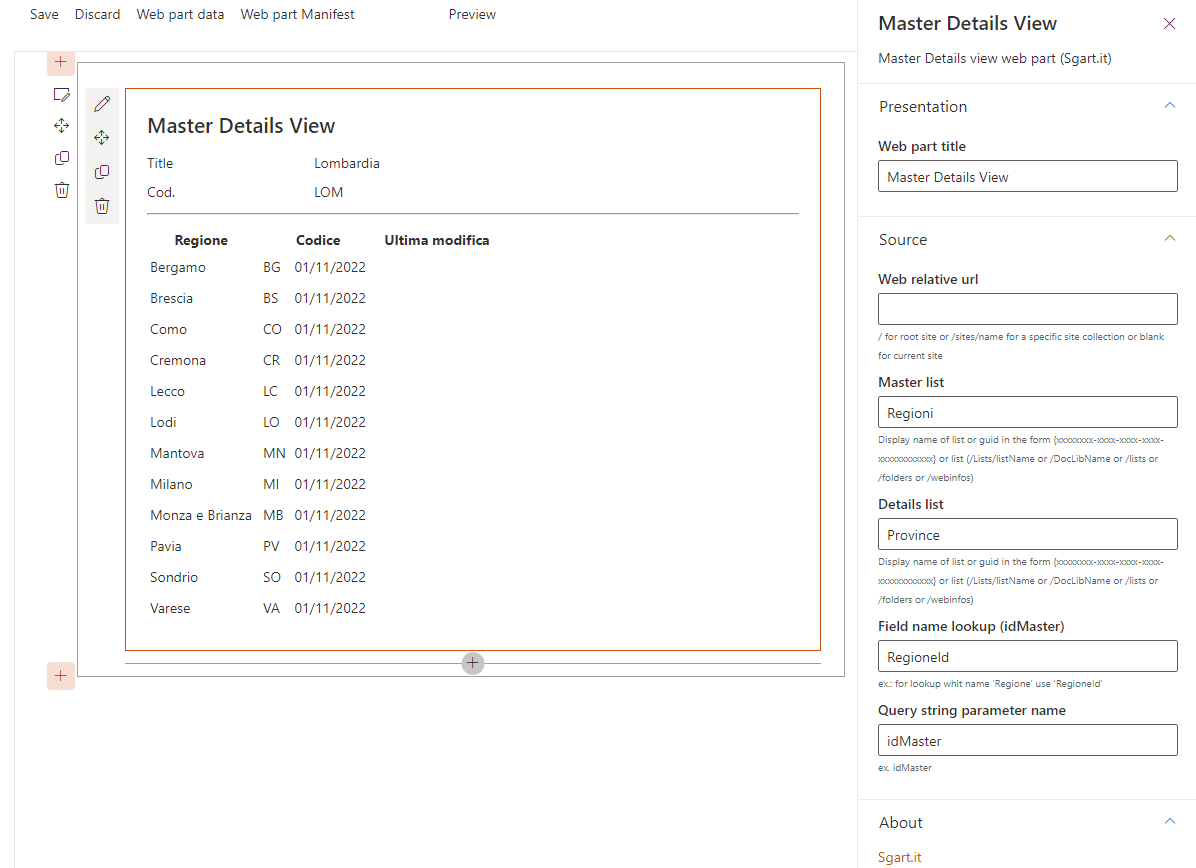
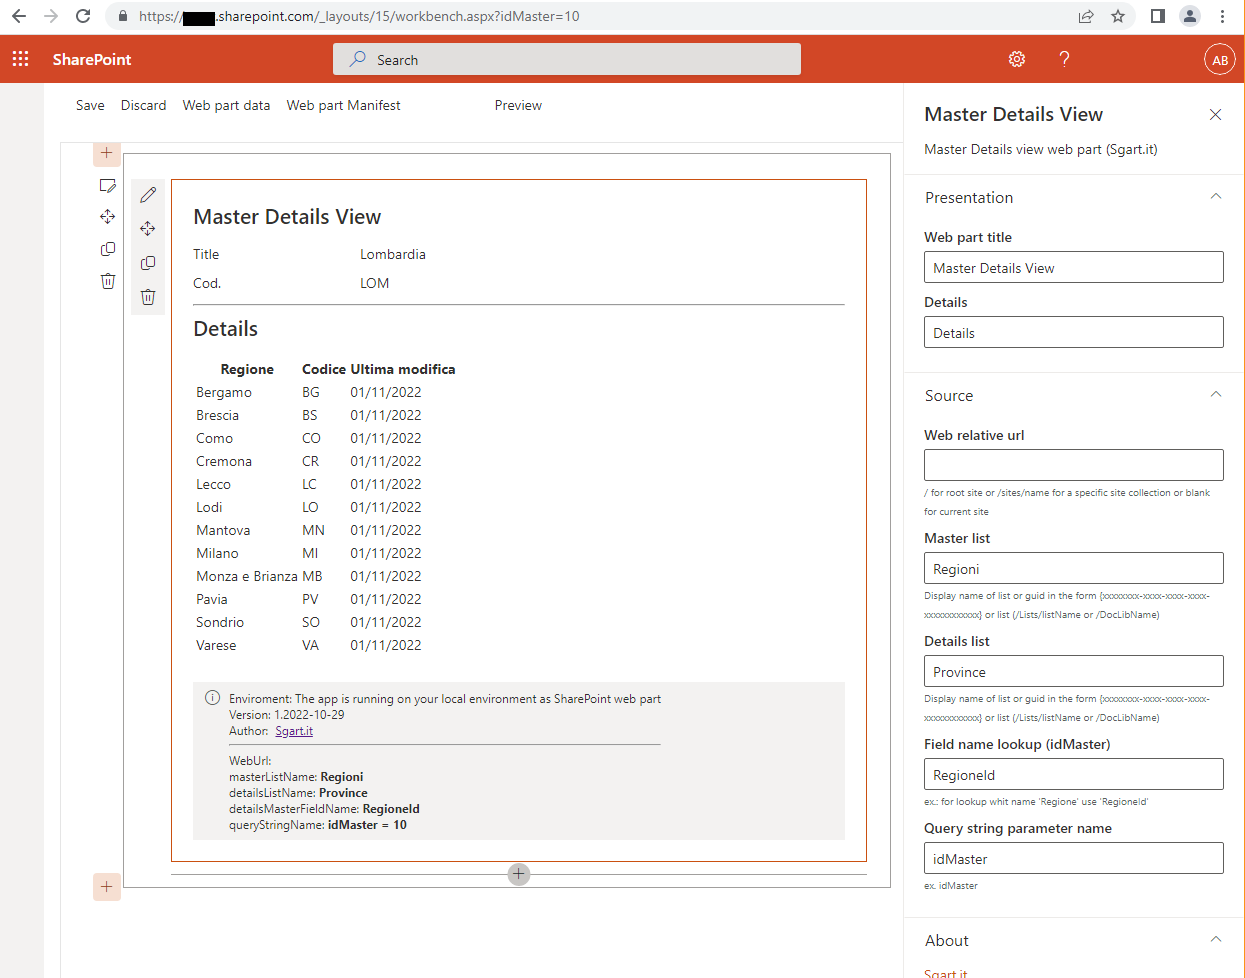
fix

diff --git a/src/webparts/masterDetails/components/MasterDetailsView.tsx b/src/webparts/masterDetails/components/MasterDetailsView.tsx
@@ -11,8 +11,9 @@ import { isNullOrWhiteSpace } from '../Helper';
 import { IResult } from '../data/IResult';
 import { IMasterItem } from '../data/IMasterItem';
 import { IDetailItem } from '../data/IDetailItem';
+import { ViewMode } from './ViewMode';
 
-const VERSION = "1.2022-10-29";
+const VERSION = "1.2022-11-01";
 
 export default class MasterDetailsView extends React.Component<IMasterDetailsViewProps, IMasterDetailsViewState> {
 
@@ -22,6 +23,9 @@ export default class MasterDetailsView extends React.Component<IMasterDetailsVie
     this.state = {
       masterLoading: true,
       detailsLoading: true,
+
+      showMaster: false,
+      showDetails: false,
 
       success: false,
 
@@ -39,6 +43,9 @@ export default class MasterDetailsView extends React.Component<IMasterDetailsVie
     const {
       isPropertyPaneOpen,
       title,
+      detailsTitle,
+      viewMode,
+
       webRelativeUrl,
       masterListName,
       detailsListName,
@@ -51,14 +58,15 @@ export default class MasterDetailsView extends React.Component<IMasterDetailsVie
       hasTeamsContext
     } = this.props;
 
-    const { masterItem, detailItems } = this.state;
+    const { showMaster, showDetails, masterItem, detailItems } = this.state;
 
-    const isTitleVivible = !isNullOrWhiteSpace(title);
+    const isTitleVisible = !isNullOrWhiteSpace(title);
+    const isDetailsTitleVisible = !isNullOrWhiteSpace(detailsTitle);
 
     return (
       <section className={`${styles.masterDetails} ${hasTeamsContext ? styles.teams : ''}`}>
 
-        {isTitleVivible && (
+        {isTitleVisible && (
           <div className={styles.title}>
             <span role="heading">{escape(title)}</span>
           </div>
@@ -70,11 +78,17 @@ export default class MasterDetailsView extends React.Component<IMasterDetailsVie
           </MessageBar>
         )}
 
-        <Master item={masterItem} />
+        {showMaster && <Master item={masterItem} />}
 
-        <hr />
+        {showMaster && showDetails && <hr />}
 
-        <Details items={detailItems} />
+        {showMaster && showDetails && isDetailsTitleVisible && (
+          <div className={styles.title2}>
+            <span role="heading">{escape(detailsTitle)}</span>
+          </div>
+        )}
+
+        {showDetails && <Details items={detailItems} />}
 
         {isPropertyPaneOpen && (
           <MessageBar
@@ -86,7 +100,8 @@ export default class MasterDetailsView extends React.Component<IMasterDetailsVie
             <div>Version: {VERSION}</div>
             <div>Author: <a href="https://www.sgart.it?SPFxMasterDetails" target="_blank" rel="noreferrer">Sgart.it</a></div>
             <hr />
-            <div>WebUrl: <strong>{escape(webRelativeUrl)}</strong></div>
+            <div>viewMode: <strong>{(ViewMode as any)[viewMode]} ({viewMode})</strong></div>
+            <div>webUrl: <strong>{escape(webRelativeUrl)}</strong></div>
             <div>masterListName: <strong>{escape(masterListName)}</strong></div>
             <div>detailsListName: <strong>{escape(detailsListName)}</strong></div>
             <div>detailsMasterFieldName: <strong>{escape(detailsMasterFieldName)}</strong></div>
@@ -103,6 +118,9 @@ export default class MasterDetailsView extends React.Component<IMasterDetailsVie
 
   public async componentDidUpdate(prevProps: IMasterDetailsViewProps, prevState: IMasterDetailsViewState): Promise<void> {
     if (
+      prevProps.title !== this.props.title ||
+      prevProps.detailsTitle !== this.props.detailsTitle ||
+      prevProps.viewMode !== this.props.viewMode ||
       prevProps.webRelativeUrl !== this.props.webRelativeUrl ||
       prevProps.masterListName !== this.props.masterListName ||
       prevProps.detailsListName !== this.props.detailsListName ||
@@ -113,44 +131,56 @@ export default class MasterDetailsView extends React.Component<IMasterDetailsVie
   }
 
   private async loadItems(): Promise<void> {
-    const { webRelativeUrl, masterListName, detailsListName, detailsMasterFieldName, idMaster } = this.props;
+    const { viewMode, webRelativeUrl, masterListName, detailsListName, detailsMasterFieldName, idMaster } = this.props;
+
+    const showMaster = viewMode === ViewMode.MasterAndDetails || viewMode === ViewMode.Master;
+    const showDetails = viewMode === ViewMode.MasterAndDetails || viewMode === ViewMode.Details;
 
     try {
-      this.setState({ masterLoading: true, detailsLoading: true });
-
-      getMaster(webRelativeUrl, masterListName, idMaster)
-        .then((result: IResult<IMasterItem>) => {
-          this.setState({
-            masterLoading: false,
-            masterItem: result.data,
-            error: result.error,
-            masterUrl: result.url
-          });
-        })
-        .catch(error => {
-          this.setState({
-            masterLoading: false,
-            masterItem: undefined,
-            error: error
-          });
-        });
-
-      getDetails(webRelativeUrl, detailsListName, detailsMasterFieldName, idMaster)
-      .then((result: IResult<IDetailItem[]>) => {
-        this.setState({
-          detailsLoading: false,
-          detailItems: result.data,
-          error: result.error,
-          masterUrl: result.url
-        });
-      })
-      .catch(error => {
-        this.setState({
-          detailsLoading: false,
-          detailItems: [],
-          error: error
-        });
+      this.setState({
+        masterLoading: showMaster,
+        detailsLoading: showDetails,
+        showMaster: showMaster,
+        showDetails: showDetails
       });
+
+      if (showMaster === true) {
+        getMaster(webRelativeUrl, masterListName, idMaster)
+          .then((result: IResult<IMasterItem>) => {
+            this.setState({
+              masterLoading: false,
+              masterItem: result.data,
+              error: result.error,
+              masterUrl: result.url
+            });
+          })
+          .catch(error => {
+            this.setState({
+              masterLoading: false,
+              masterItem: undefined,
+              error: error
+            });
+          });
+      }
+
+      if (showDetails === true) {
+        getDetails(webRelativeUrl, detailsListName, detailsMasterFieldName, idMaster)
+          .then((result: IResult<IDetailItem[]>) => {
+            this.setState({
+              detailsLoading: false,
+              detailItems: result.data,
+              error: result.error,
+              masterUrl: result.url
+            });
+          })
+          .catch(error => {
+            this.setState({
+              detailsLoading: false,
+              detailItems: [],
+              error: error
+            });
+          });
+      }
 
     } catch (error) {
       this.setState({

diff --git a/src/webparts/masterDetails/MasterDetailsViewWebPart.ts b/src/webparts/masterDetails/MasterDetailsViewWebPart.ts
@@ -3,6 +3,7 @@ import * as ReactDom from 'react-dom';
 import { Version } from '@microsoft/sp-core-library';
 import {
   IPropertyPaneConfiguration,
+  PropertyPaneDropdown,
   PropertyPaneLink,
   PropertyPaneTextField
 } from '@microsoft/sp-property-pane';
@@ -14,6 +15,7 @@ import MasterDetails from './components/MasterDetailsView';
 import { IMasterDetailsViewProps } from './components/IMasterDetailsViewProps';
 import { IMasterDetailsViewWebPartProps } from './IMasterDetailsViewWebPartProps';
 import { initDataService } from './data/DataService';
+import { ViewMode } from './components/ViewMode';
 
 export default class MasterDetailsViewWebPart extends BaseClientSideWebPart<IMasterDetailsViewWebPartProps> {
 
@@ -32,18 +34,22 @@ export default class MasterDetailsViewWebPart extends BaseClientSideWebPart<IMas
     const params = new URLSearchParams(document.location.search);
     // attenzione il parametro in query string è case sensitive
     const idMaster = Number(params.get(this.properties.queryStringName));
+    const props = this.properties;
 
     const element: React.ReactElement<IMasterDetailsViewProps> = React.createElement(
       MasterDetails,
       {
         isPropertyPaneOpen: this.context.propertyPane.isPropertyPaneOpen(),
 
-        title: this.properties.webpartTitle,
-        webRelativeUrl: this.properties.webRelativeUrl,
-        masterListName: this.properties.masterListName,
-        detailsListName: this.properties.detailsListName,
-        detailsMasterFieldName: this.properties.detailsMasterFieldName,
-        queryStringName: this.properties.queryStringName,
+        title: props.webpartTitle,
+        detailsTitle: props.detailsTitle,
+        viewMode: (ViewMode as any)[this.properties.viewMode],
+
+        webRelativeUrl: props.webRelativeUrl,
+        masterListName: props.masterListName,
+        detailsListName: props.detailsListName,
+        detailsMasterFieldName: props.detailsMasterFieldName,
+        queryStringName: props.queryStringName,
 
         idMaster: idMaster,
 
@@ -54,7 +60,7 @@ export default class MasterDetailsViewWebPart extends BaseClientSideWebPart<IMas
       }
     );
 
-    console.log('instance', this.context.instanceId);
+    console.log('Master/Details instance id', this.context.instanceId);
     ReactDom.render(element, this.domElement);
   }
 
@@ -93,6 +99,10 @@ export default class MasterDetailsViewWebPart extends BaseClientSideWebPart<IMas
   }
 
   protected getPropertyPaneConfiguration(): IPropertyPaneConfiguration {
+    const viewModeOptions = Object.keys(ViewMode)
+      .filter((v) => isNaN(Number(v)))
+      .map(item => { return { key: item, text: item } });
+
     return {
       pages: [
         {
@@ -106,7 +116,14 @@ export default class MasterDetailsViewWebPart extends BaseClientSideWebPart<IMas
               groupFields: [
                 PropertyPaneTextField('webpartTitle', {
                   label: strings.WebPartTitleLabel
-                })
+                }),
+                PropertyPaneTextField('detailsTitle', {
+                  label: strings.DetailsTitleLabel
+                }),
+                PropertyPaneDropdown('viewMode', {
+                  label: strings.ViewModeLabel,
+                  options: viewModeOptions
+                }),
               ]
             },
             {

diff --git a/src/webparts/masterDetails/loc/en-us.js b/src/webparts/masterDetails/loc/en-us.js
@@ -12,14 +12,16 @@ define([], function() {
 
 
     "WebPartTitleLabel": "Web part title",
+    "DetailsTitleLabel": "Details title",
+    "ViewModeLabel": "View mode",
     
     "WebRelativeUrlLabel": "Web relative url",
     "WebRelativeUrlDescription": "/ for root site or /sites/name for a specific site collection or blank for current site",
     "MasterListNameLabel": "Master list",
-    "ListNameDescription": "Display name of list or guid in the form {xxxxxxxx-xxxx-xxxx-xxxx-xxxxxxxxxxxx} or list (/Lists/listName or /DocLibName or /lists or /folders or /webinfos)",
+    "ListNameDescription": "Display name of list or guid in the form {xxxxxxxx-xxxx-xxxx-xxxx-xxxxxxxxxxxx} or list (/Lists/listName or /DocLibName)",
     "DetailsListNameLabel": "Details list",
     "DetailsMasterFieldNameLabel":"Field name lookup (idMaster)",
-    "DetailsMasterFieldNameDescription":"ex.: for lookup whit name 'Regione' use 'RegioneId'",
+    "DetailsMasterFieldNameDescription":"ex.: for lookup with name 'Regione' use 'RegioneId'",
 
     "QueryStringNameLabel": "Query string parameter name",
     "QueryStringNameDescription": "ex. idMaster" 

diff --git a/src/webparts/masterDetails/data/DataService.ts b/src/webparts/masterDetails/data/DataService.ts
@@ -26,7 +26,6 @@ const _localeDateTimeOptions: Intl.DateTimeFormatOptions = { year: 'numeric', mo
 const getString = (item: object, name: string): string | undefined => {
     try {
         const value = (item as any)[name];
-        console.log('getString', item, item as any, (item as any)[name]);
 
         if (null === value) return undefined;
 
@@ -196,7 +195,7 @@ export async function getDetails(webRelativeUrl: string, listName: string, filed
                         id: item.Id,
                         title: isNullOrWhiteSpace(title) || title === '-' ? '' : title,
                         codProvincia: getString(item, "CodProvincia"),
-                        modified: getDate(item, "Modified", "date")
+                        modified: getDate(item, "Modified", "datetime")
                     };
                 });
                 result.success = true;

diff --git a/src/webparts/masterDetails/components/views/Details.tsx b/src/webparts/masterDetails/components/views/Details.tsx
@@ -25,8 +25,8 @@ export default class Details extends React.Component<IDetailsViewProps> {
       return (
         <tr key={item.id}>
           <td>{item.title}</td>
-          <td className={styles.gridCol4}>{item.codProvincia}</td>
-          <td className={styles.gridCol4}>{item.modified}</td>
+          <td>{item.codProvincia}</td>
+          <td>{item.modified}</td>
         </tr>
       );
 

diff --git a/src/webparts/masterDetails/components/MasterDetailsView.module.scss b/src/webparts/masterDetails/components/MasterDetailsView.module.scss
@@ -61,6 +61,15 @@ Orange theme
   margin: 0 0 10px 0;
 }
 
+.title2 {
+  @include ms-fontSize-l;
+  @include ms-fontWeight-semibold;
+  text-align: left;
+  color: "[theme:bodyText, default: #323130]";
+  color: var(--bodyText);
+  margin: 0 0 10px 0;
+}
+
 .debugInfo {
   margin-top: 20px;
 }

diff --git a/src/webparts/masterDetails/IMasterDetailsViewWebPartProps.ts b/src/webparts/masterDetails/IMasterDetailsViewWebPartProps.ts
@@ -1,6 +1,8 @@
 export interface IMasterDetailsViewWebPartProps {
     webpartTitle: string;
- 
+    detailsTitle: string;
+    viewMode: string;
+    
     webRelativeUrl: string;
     masterListName: string;
     detailsListName: string;

diff --git a/src/webparts/masterDetails/loc/mystrings.d.ts b/src/webparts/masterDetails/loc/mystrings.d.ts
@@ -11,6 +11,8 @@ declare interface IMasterDetailsViewWebPartStrings {
 
 
   WebPartTitleLabel: string;
+  DetailsTitleLabel: string;
+  ViewModeLabel: string;
   
   WebRelativeUrlLabel: string;
   WebRelativeUrlDescription: string;

diff --git a/src/webparts/masterDetails/components/IMasterDetailsViewState.ts b/src/webparts/masterDetails/components/IMasterDetailsViewState.ts
@@ -8,6 +8,9 @@ export interface IMasterDetailsViewState {
   masterLoading: boolean;
   detailsLoading: boolean;
 
+  showMaster: boolean;
+  showDetails: boolean;
+
   masterItem: IMasterItem;
   detailItems: IDetailItem[];
   

diff --git a/src/webparts/masterDetails/components/IMasterDetailsViewProps.ts b/src/webparts/masterDetails/components/IMasterDetailsViewProps.ts
@@ -1,5 +1,9 @@
+import { ViewMode } from "./ViewMode";
+
 export interface IMasterDetailsViewProps {
   title: string;
+  detailsTitle: string;
+  viewMode: ViewMode;
   isPropertyPaneOpen: boolean;
 
   webRelativeUrl: string;

diff --git a/src/webparts/masterDetails/components/ViewMode.ts b/src/webparts/masterDetails/components/ViewMode.ts
@@ -1,0 +1,5 @@
+export enum ViewMode {
+    MasterAndDetails,
+    Master,
+    Details
+}
